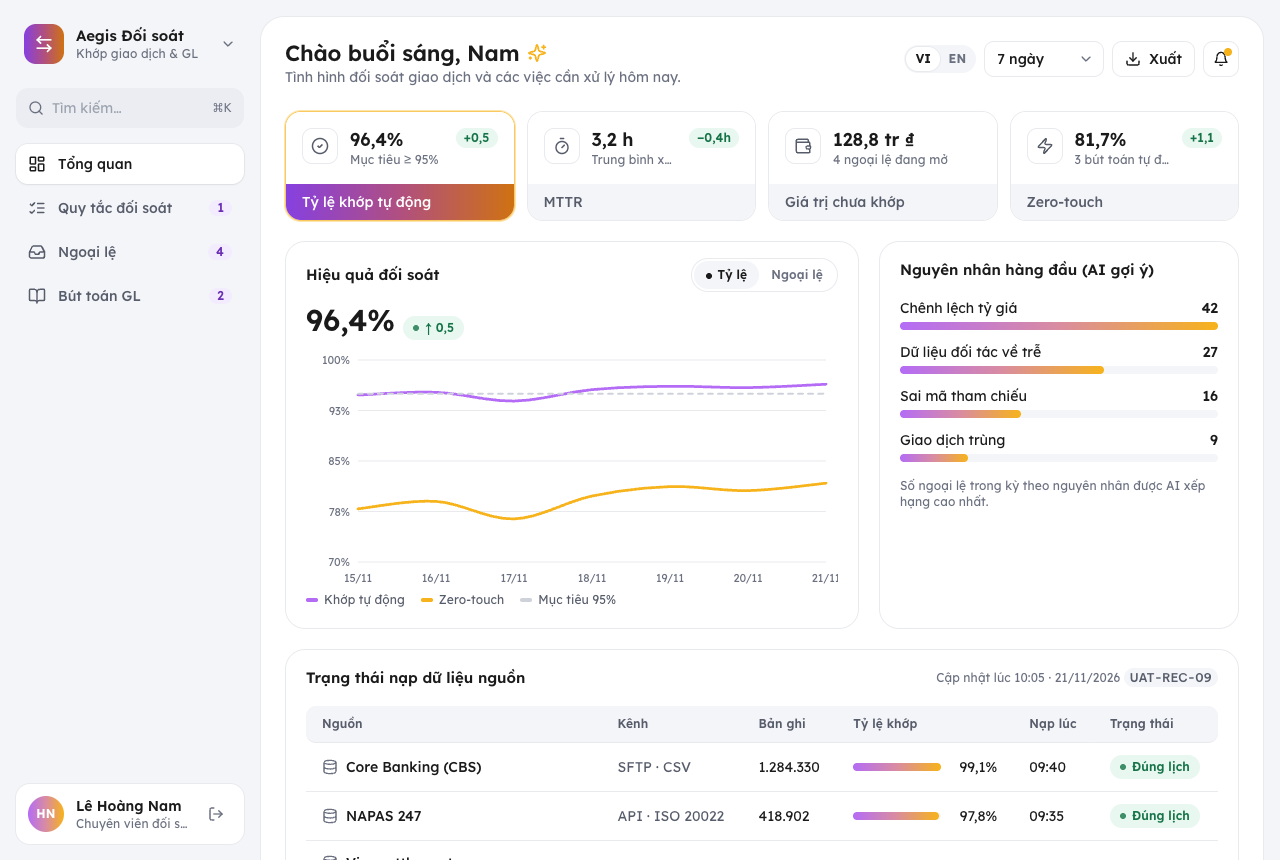
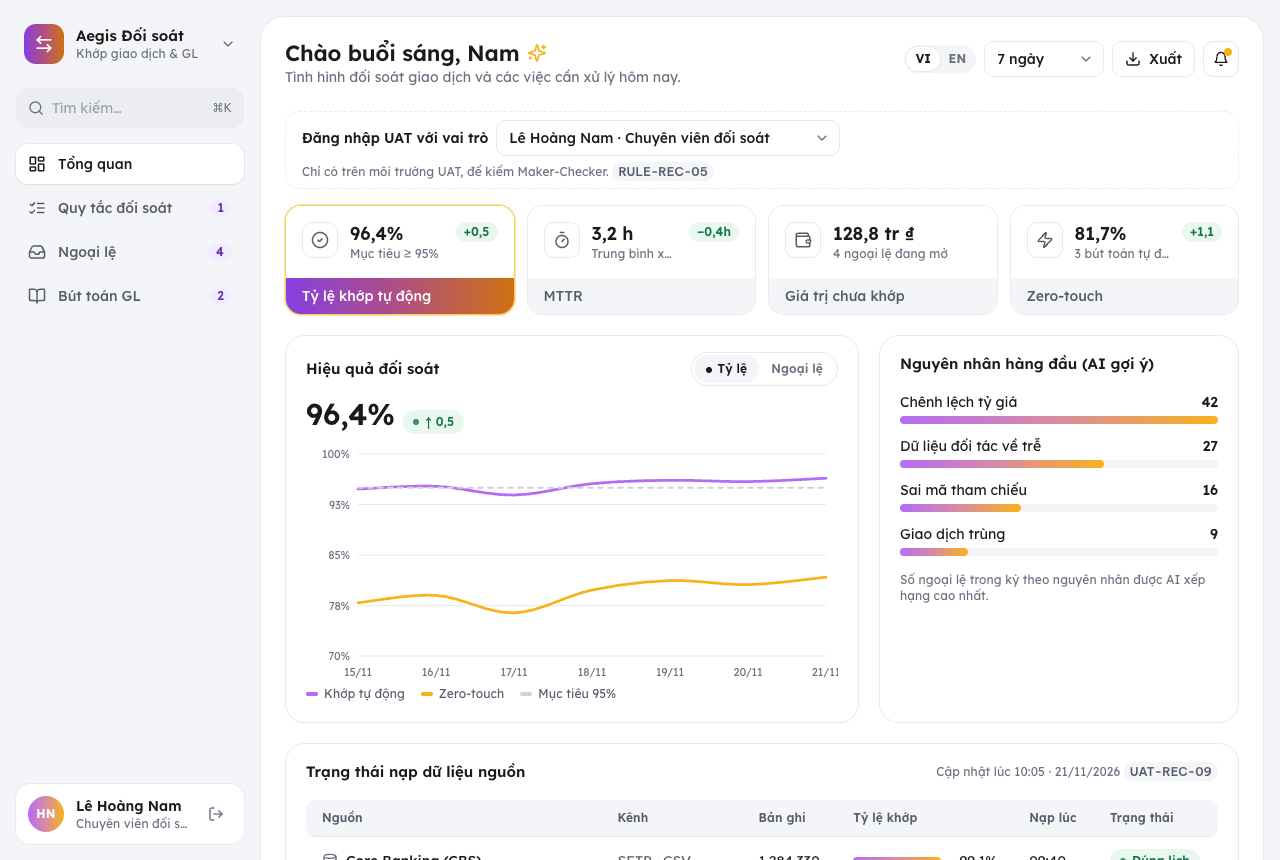
Reconciliation UI: UAT sign-in with 3 roles, RULE-REC-05 check at GL approval, rule shown per entry; tests TC-REC-23..25 (25/25); R02-R04 updated

diff --git a/src/ops/Reconciliation.tsx b/src/ops/Reconciliation.tsx
@@ -1,5 +1,5 @@
 /* Aegis Đối soát – REC-01 → REC-06 (SCRUM-49), truy vết dữ liệu (SCRUM-50). Dữ liệu hư cấu. */
-import { useMemo, useState } from "react";
+import { createContext, useContext, useEffect, useMemo, useState } from "react";
 import {
   AlertTriangle, ArrowLeft, ArrowRight, BookOpen, CheckCircle2, Clock, Database, GitBranch, Inbox,
   LayoutDashboard, ListChecks, Plus, ScrollText, ShieldAlert, Sparkles, Timer, Wallet, Zap,
@@ -10,7 +10,15 @@ import {
   GhostButton, GradientButton, HBars, LineChart, Meter, OpsShell, Panel, Pill, type PillTone, RuleTag, SearchBox, Segmented, Select, StatCard, Table, pct, vnd,
 } from "./kit";
 
-const ME = "Lê Hoàng Nam";
+const NAM = "Lê Hoàng Nam";
+/* Người dùng UAT – đổi vai trò để kiểm Maker-Checker và RULE-REC-05 (R04 §2) */
+const USERS = [
+  { name: NAM, vi: "Chuyên viên đối soát", en: "Reconciliation officer" },
+  { name: "Phạm Thu Trang", vi: "Kiểm soát viên (Checker)", en: "Controller (checker)" },
+  { name: "Đỗ Minh Quân", vi: "Trưởng nhóm đối soát", en: "Reconciliation lead" },
+];
+const MeCtx = createContext(NAM);
+const useMe = () => useContext(MeCtx);
 const GL_THRESHOLD = 50_000_000; // RULE-REC-04 – giữ baseline vì CR-002 chưa duyệt
 
 type View = "dashboard" | "rules" | "exceptions" | "gl";
@@ -31,7 +39,7 @@ type RuleStatus = "ACTIVE" | "PENDING" | "DRAFT";
 type Rule = { id: string; name: string; type: RuleType; keys: string[]; tolerance: string; version: number; status: RuleStatus; maker: string; checker?: string; hit: number };
 const RULES0: Rule[] = [
   { id: "MR-001", name: "CBS ↔ NAPAS · khớp tuyệt đối", type: "EXACT", keys: ["ref", "amount", "date"], tolerance: "0 ₫ · 0 ngày", version: 7, status: "ACTIVE", maker: "Phạm Thu Trang", checker: "Lê Hoàng Nam", hit: 71.2 },
-  { id: "MR-002", name: "CBS ↔ Visa · lệch tỷ giá", type: "FUZZY", keys: ["amount", "date", "account"], tolerance: "±0,5% · ±1 ngày", version: 4, status: "ACTIVE", maker: "Lê Hoàng Nam", checker: "Phạm Thu Trang", hit: 14.6 },
+  { id: "MR-002", name: "CBS ↔ Visa · lệch tỷ giá", type: "FUZZY", keys: ["amount", "date", "account"], tolerance: "±0,5% · ±1 ngày", version: 4, status: "ACTIVE", maker: "Đỗ Minh Quân", checker: "Phạm Thu Trang", hit: 14.6 },
   { id: "MR-003", name: "Gộp phí N:1 Mastercard", type: "N1", keys: ["batch", "amount"], tolerance: "≤ 20 giao dịch/lô", version: 2, status: "ACTIVE", maker: "Đỗ Minh Quân", checker: "Lê Hoàng Nam", hit: 6.3 },
   { id: "MR-004", name: "Ví điện tử · mã tham chiếu rút gọn", type: "FUZZY", keys: ["ref", "amount"], tolerance: "Levenshtein ≤ 2", version: 1, status: "PENDING", maker: "Lê Hoàng Nam", hit: 0 },
   { id: "MR-005", name: "Hoàn tiền NAPAS (refund)", type: "EXACT", keys: ["ref", "amount"], tolerance: "0 ₫", version: 1, status: "DRAFT", maker: "Phạm Thu Trang", hit: 0 },
@@ -41,26 +49,26 @@ const RULES0: Rule[] = [
 type ExStatus = "OPEN" | "IN_PROGRESS" | "ESCALATED" | "PENDING_POSTING" | "RESOLVED";
 type Resolution = "ADJUSTMENT" | "MANUAL_MATCH" | "REQUEST_DOCS";
 type Ex = {
-  id: string; pair: string; kind: "UNMATCHED" | "PARTIAL" | "DUPLICATE"; amount: number; diff: number; ageH: number; dueH: number;
+  id: string; pair: string; rule: string; kind: "UNMATCHED" | "PARTIAL" | "DUPLICATE"; amount: number; diff: number; ageH: number; dueH: number;
   owner?: string; status: ExStatus; causes: { vi: string; en: string; p: number }[];
   resolution?: { type: Resolution; cause: string; override: boolean; note?: string; ref?: string };
   waitingDocs?: string;
   internal: { ref: string; date: string; acct: string; amount: number }; external: { ref: string; date: string; acct: string; amount: number } | null;
 };
 const EX0: Ex[] = [
-  { id: "EXC-1124", pair: "CBS ↔ Visa", kind: "PARTIAL", amount: 48_250_000, diff: 241_250, ageH: 30, dueH: 24, owner: ME, status: "IN_PROGRESS",
+  { id: "EXC-1124", pair: "CBS ↔ Visa", rule: "MR-002", kind: "PARTIAL", amount: 48_250_000, diff: 241_250, ageH: 30, dueH: 24, owner: NAM, status: "IN_PROGRESS",
     causes: [{ vi: "Chênh lệch tỷ giá quy đổi USD/VND", en: "USD/VND conversion difference", p: 78 }, { vi: "Phí chuyển đổi ngoại tệ chưa hạch toán", en: "Unbooked FX fee", p: 15 }, { vi: "Làm tròn của tổ chức thẻ", en: "Card scheme rounding", p: 7 }],
     internal: { ref: "FT2611093321", date: "20/11 14:02", acct: "1903 6688 2025", amount: 48_250_000 }, external: { ref: "VS-883102", date: "21/11 06:10", acct: "4111 •••• 1234", amount: 48_008_750 } },
-  { id: "EXC-1125", pair: "CBS ↔ NAPAS", kind: "UNMATCHED", amount: 125_000_000, diff: 125_000_000, ageH: 52, dueH: 48, status: "ESCALATED",
+  { id: "EXC-1125", pair: "CBS ↔ NAPAS", rule: "MR-001", kind: "UNMATCHED", amount: 125_000_000, diff: 125_000_000, ageH: 52, dueH: 48, status: "ESCALATED",
     causes: [{ vi: "Giao dịch NAPAS chưa về (T+1)", en: "NAPAS record not yet received (T+1)", p: 64 }, { vi: "Sai mã tham chiếu do nhập tay", en: "Manually mistyped reference", p: 24 }, { vi: "Giao dịch bị huỷ phía ngân hàng nhận", en: "Reversed by the beneficiary bank", p: 12 }],
     internal: { ref: "FT2611080017", date: "19/11 09:41", acct: "0071 0003 4567", amount: 125_000_000 }, external: null },
-  { id: "EXC-1127", pair: "Mastercard N:1", kind: "PARTIAL", amount: 12_400_000, diff: 18_000, ageH: 6, dueH: 24, status: "OPEN",
+  { id: "EXC-1127", pair: "Mastercard N:1", rule: "MR-003", kind: "PARTIAL", amount: 12_400_000, diff: 18_000, ageH: 6, dueH: 24, status: "OPEN",
     causes: [{ vi: "Thiếu 1 giao dịch phí trong lô", en: "One fee transaction missing from batch", p: 71 }, { vi: "Phí interchange thay đổi", en: "Interchange fee changed", p: 22 }, { vi: "Lô bị tách 2 file", en: "Batch split across two files", p: 7 }],
     internal: { ref: "BATCH-MC-1120", date: "20/11 23:59", acct: "GL 1131.02", amount: 12_400_000 }, external: { ref: "IPM-77812", date: "21/11 06:05", acct: "GL 1131.02", amount: 12_382_000 } },
-  { id: "EXC-1128", pair: "CBS ↔ NAPAS", kind: "DUPLICATE", amount: 3_500_000, diff: 3_500_000, ageH: 2, dueH: 24, status: "OPEN",
+  { id: "EXC-1128", pair: "CBS ↔ NAPAS", rule: "MR-001", kind: "DUPLICATE", amount: 3_500_000, diff: 3_500_000, ageH: 2, dueH: 24, status: "OPEN",
     causes: [{ vi: "Khách bấm chuyển 2 lần", en: "Customer submitted twice", p: 82 }, { vi: "NAPAS gửi lại bản ghi", en: "NAPAS resent the record", p: 18 }],
     internal: { ref: "FT2611095510", date: "21/11 08:12", acct: "1903 1122 3344", amount: 3_500_000 }, external: { ref: "NP-5510-DUP", date: "21/11 08:12", acct: "1903 1122 3344", amount: 3_500_000 } },
-  { id: "EXC-1120", pair: "CBS ↔ Visa", kind: "PARTIAL", amount: 9_870_000, diff: 49_350, ageH: 70, dueH: 72, owner: "Phạm Thu Trang", status: "RESOLVED",
+  { id: "EXC-1120", pair: "CBS ↔ Visa", rule: "MR-002", kind: "PARTIAL", amount: 9_870_000, diff: 49_350, ageH: 70, dueH: 72, owner: "Phạm Thu Trang", status: "RESOLVED",
     causes: [{ vi: "Chênh lệch tỷ giá quy đổi USD/VND", en: "USD/VND conversion difference", p: 91 }],
     internal: { ref: "FT2611051209", date: "18/11 10:20", acct: "1903 2211 8899", amount: 9_870_000 }, external: { ref: "VS-881044", date: "19/11 06:08", acct: "4111 •••• 9981", amount: 9_820_650 } },
 ];
@@ -69,9 +77,9 @@ type GLStatus = "POSTED" | "PENDING" | "RETURNED" | "REJECTED";
 type GL = { id: string; date: string; debit: string; credit: string; amount: number; source: string; mode: "ZERO_TOUCH" | "MAKER_CHECKER"; maker: string; checker?: string; status: GLStatus; memo: { vi: string; en: string }; rejectReason?: string; returnNote?: string; submits?: number };
 const GL0: GL[] = [
   { id: "GL-90311", date: "21/11 09:42", debit: "1131.02", credit: "4211.01", amount: 12_382_000, source: "MR-003 · BATCH-MC-1120", mode: "ZERO_TOUCH", maker: "system", status: "POSTED", memo: { vi: "Tất toán lô Mastercard", en: "Mastercard batch settlement" } },
-  { id: "GL-90312", date: "21/11 09:44", debit: "6311.01", credit: "1131.03", amount: 241_250, source: "EXC-1124", mode: "ZERO_TOUCH", maker: ME, status: "POSTED", memo: { vi: "Điều chỉnh chênh lệch tỷ giá", en: "FX difference adjustment" } },
+  { id: "GL-90312", date: "21/11 09:44", debit: "6311.01", credit: "1131.03", amount: 241_250, source: "EXC-1124", mode: "ZERO_TOUCH", maker: NAM, status: "POSTED", memo: { vi: "Điều chỉnh chênh lệch tỷ giá", en: "FX difference adjustment" } },
   { id: "GL-90313", date: "21/11 09:51", debit: "1131.01", credit: "4211.05", amount: 125_000_000, source: "EXC-1125", mode: "MAKER_CHECKER", maker: "Phạm Thu Trang", status: "PENDING", memo: { vi: "Treo chờ NAPAS T+1", en: "Suspense pending NAPAS T+1" } },
-  { id: "GL-90314", date: "21/11 10:03", debit: "1131.01", credit: "4211.01", amount: 86_400_000, source: "MR-002 · VS-883190", mode: "MAKER_CHECKER", maker: ME, status: "PENDING", memo: { vi: "Điều chỉnh lô Visa > 50 triệu", en: "Visa batch adjustment > 50m" } },
+  { id: "GL-90314", date: "21/11 10:03", debit: "1131.01", credit: "4211.01", amount: 86_400_000, source: "MR-002 · VS-883190", mode: "MAKER_CHECKER", maker: NAM, status: "PENDING", memo: { vi: "Điều chỉnh lô Visa > 50 triệu", en: "Visa batch adjustment > 50m" } },
   { id: "GL-90309", date: "20/11 17:20", debit: "6311.01", credit: "1131.03", amount: 49_350, source: "EXC-1120", mode: "ZERO_TOUCH", maker: "Phạm Thu Trang", status: "POSTED", memo: { vi: "Điều chỉnh chênh lệch tỷ giá", en: "FX difference adjustment" } },
 ];
 
@@ -98,7 +106,13 @@ const aging = (h: number) => (h < 24 ? "0–1d" : h < 72 ? "1–3d" : h < 168 ? 
 /* ---------- App ---------- */
 
 function RecApp() {
-  const { tr } = useLang();
+  const { tr, pick } = useLang();
+  const [me, setMe] = useState(() => {
+    if (typeof window === "undefined") return NAM;
+    const as = new URLSearchParams(window.location.search).get("as");
+    return USERS.find((u) => u.name.split(" ").at(-1)?.toLowerCase() === as?.toLowerCase())?.name ?? NAM;
+  });
+  const meUser = USERS.find((u) => u.name === me)!;
   const [view, setView] = useState<View>("dashboard");
   const [period, setPeriod] = useState("7d");
   const [rules, setRules] = useState(RULES0);
@@ -120,9 +134,10 @@ function RecApp() {
   const ex = exs.find((e) => e.id === openEx);
 
   return (
+    <MeCtx.Provider value={me}>
     <OpsShell
-      module="reconciliation" nav={nav} view={view} onView={go} user={ME} role={tr("Chuyên viên đối soát", "Reconciliation officer")}
-      greeting={tr("Chào buổi sáng, Nam", "Good morning, Nam")}
+      module="reconciliation" nav={nav} view={view} onView={go} user={me} role={pick(meUser)}
+      greeting={tr(`Chào buổi sáng, ${me.split(" ").at(-1)}`, `Good morning, ${me.split(" ").at(-1)}`)}
       subtitle={tr("Tình hình đối soát giao dịch và các việc cần xử lý hôm nay.", "Today's reconciliation status and what needs your attention.")}
       period={period} onPeriod={setPeriod} onExport={() => {}}
       alerts={[
@@ -131,6 +146,11 @@ function RecApp() {
         { title: tr("2 bút toán > 50 triệu chờ Checker", "2 entries > 50m awaiting checker"), time: "10:03", tone: "pending" },
       ]}
     >
+      <div className="mb-4 flex flex-wrap items-center gap-2 rounded-[14px] border border-dashed border-line-subtle px-4 py-2 text-body-sm">
+        <span className="font-semibold">{tr("Đăng nhập UAT với vai trò", "UAT sign-in as")}</span>
+        <Select value={me} onChange={setMe} label={tr("Người dùng UAT", "UAT user")} options={USERS.map((u) => ({ value: u.name, label: `${u.name} · ${pick(u)}` }))} />
+        <span className="text-caption text-fg-tertiary">{tr("Chỉ có trên môi trường UAT, để kiểm Maker-Checker.", "UAT only, for testing maker-checker.")} <RuleTag>RULE-REC-05</RuleTag></span>
+      </div>
       {view === "dashboard" && <Dashboard period={period} exs={exs} gls={gls} onOpenEx={(id) => { setView("exceptions"); setOpenEx(id); }} go={go} />}
       {view === "rules" && <Rules rules={rules} setRules={setRules} onNew={() => setRuleForm(true)} />}
       {view === "exceptions" && !ex && <Exceptions exs={exs} onOpen={setOpenEx} />}
@@ -139,10 +159,11 @@ function RecApp() {
           update={(p) => setExs((xs) => xs.map((x) => (x.id === ex.id ? { ...x, ...p } : x)))}
           addGL={(g) => setGls((xs) => [g, ...xs])} />
       )}
-      {view === "gl" && <GLView gls={gls} setGls={setGls}
+      {view === "gl" && <GLView gls={gls} setGls={setGls} rules={rules} exs={exs}
         onCase={(id, outcome) => setExs((xs) => xs.map((x) => (x.id !== id || x.status === "RESOLVED" ? x : outcome === "posted" ? { ...x, status: "RESOLVED" } : x.status === "PENDING_POSTING" ? { ...x, status: "IN_PROGRESS" } : x)))} />}
       <RuleForm open={ruleForm} onClose={() => setRuleForm(false)} onSave={(r) => { setRules((xs) => [r, ...xs]); setRuleForm(false); }} nextId={`MR-${String(rules.length + 1).padStart(3, "0")}`} />
     </OpsShell>
+    </MeCtx.Provider>
   );
 }
 
@@ -227,6 +248,7 @@ function Dashboard({ period, exs, gls, onOpenEx, go }: { period: string; exs: Ex
 
 function Rules({ rules, setRules, onNew }: { rules: Rule[]; setRules: (f: (r: Rule[]) => Rule[]) => void; onNew: () => void }) {
   const { tr } = useLang();
+  const ME = useMe();
   const [q, setQ] = useState("");
   const [msg, setMsg] = useState<string | null>(null);
   const list = rules.filter((r) => (r.name + r.id).toLowerCase().includes(q.toLowerCase()));
@@ -270,12 +292,14 @@ function Rules({ rules, setRules, onNew }: { rules: Rule[]; setRules: (f: (r: Ru
 
 function RuleForm({ open, onClose, onSave, nextId }: { open: boolean; onClose: () => void; onSave: (r: Rule) => void; nextId: string }) {
   const { tr } = useLang();
+  const ME = useMe();
   const [name, setName] = useState("");
   const [type, setType] = useState<RuleType>("FUZZY");
   const [keys, setKeys] = useState<string[]>(["ref", "amount"]);
   const [amountTol, setAmountTol] = useState("0,5");
   const [dayTol, setDayTol] = useState("1");
   const [checker, setChecker] = useState("Phạm Thu Trang");
+  useEffect(() => { if (open) setChecker(USERS.find((u) => u.name !== ME)!.name); }, [open, ME]);
   const sod = checker === ME;
   const valid = name.trim().length >= 4 && keys.length >= 1 && !sod;
   const allKeys = [{ id: "ref", l: tr("Mã tham chiếu", "Reference") }, { id: "amount", l: tr("Số tiền", "Amount") }, { id: "date", l: tr("Ngày giao dịch", "Date") }, { id: "account", l: tr("Tài khoản", "Account") }, { id: "batch", l: tr("Mã lô", "Batch") }];
@@ -299,7 +323,7 @@ function RuleForm({ open, onClose, onSave, nextId }: { open: boolean; onClose: (
           </div>
         )}
         <div className="flex flex-col gap-1.5"><span className="text-body-sm font-semibold">{tr("Người duyệt (Checker)", "Approver (checker)")}</span>
-          <Select value={checker} onChange={setChecker} label={tr("Người duyệt", "Approver")} options={[{ value: "Phạm Thu Trang", label: "Phạm Thu Trang" }, { value: "Đỗ Minh Quân", label: "Đỗ Minh Quân" }, { value: ME, label: `${ME} (${tr("bạn", "you")})` }]} /></div>
+          <Select value={checker} onChange={setChecker} label={tr("Người duyệt", "Approver")} options={USERS.map((u) => ({ value: u.name, label: u.name === ME ? `${u.name} (${tr("bạn", "you")})` : u.name }))} /></div>
         {sod && (
           <div role="alert" className="flex gap-3 rounded-[14px] border border-[#f3c6c0] bg-[#fdf0ee] p-4 text-body-sm text-[#7a1a12]">
             <ShieldAlert className="mt-0.5 size-5 shrink-0" />
@@ -358,6 +382,7 @@ const textCls = "w-full rounded-[12px] border border-line-subtle px-3 py-2 text-
 
 function ExceptionDetail({ ex, gls, onBack, update, addGL }: { ex: Ex; gls: GL[]; onBack: () => void; update: (p: Partial<Ex>) => void; addGL: (g: GL) => void }) {
   const { tr, pick } = useLang();
+  const ME = useMe();
   const [cause, setCause] = useState<number | "other">(0);
   const [otherCat, setOtherCat] = useState(0);
   const [otherNote, setOtherNote] = useState("");
@@ -533,8 +558,11 @@ function ExceptionDetail({ ex, gls, onBack, update, addGL }: { ex: Ex; gls: GL[]
 
 /* ---------- REC-06 Bút toán GL ---------- */
 
-function GLView({ gls, setGls, onCase }: { gls: GL[]; setGls: (f: (g: GL[]) => GL[]) => void; onCase: (caseId: string, outcome: "posted" | "reopened") => void }) {
+function GLView({ gls, setGls, onCase, rules, exs }: { gls: GL[]; setGls: (f: (g: GL[]) => GL[]) => void; onCase: (caseId: string, outcome: "posted" | "reopened") => void; rules: Rule[]; exs: Ex[] }) {
   const { tr, pick } = useLang();
+  const ME = useMe();
+  // Quy tắc đã sinh ra giao dịch của bút toán: lấy trực tiếp từ nguồn, hoặc qua ngoại lệ liên quan
+  const ruleOf = (g: GL) => rules.find((r) => r.id === (g.source.match(/MR-\d+/)?.[0] ?? exs.find((e) => e.id === caseOf(g))?.rule));
   const [tab, setTab] = useState<"all" | "pending" | "zero">("all");
   const [msg, setMsg] = useState<{ tone: "ok" | "block"; text: string } | null>(null);
   const [dialog, setDialog] = useState<{ g: GL; kind: "reject" | "return" } | null>(null);
@@ -548,6 +576,12 @@ function GLView({ gls, setGls, onCase }: { gls: GL[]; setGls: (f: (g: GL[]) => G
   };
   const approve = (g: GL) => {
     if (blockMaker(g)) return;
+    // RULE-REC-05 (BR-REC-08, REQ-REC-07): người tạo quy tắc không duyệt điều chỉnh lớn sinh từ quy tắc đó
+    const r = ruleOf(g);
+    if (g.amount > GL_THRESHOLD && r && r.maker === ME) {
+      setMsg({ tone: "block", text: tr(`Không thể duyệt ${g.id}: bạn là người tạo quy tắc ${r.id} sinh ra giao dịch này (RULE-REC-05 – phân tách nhiệm vụ).`, `Can't approve ${g.id}: you created rule ${r.id}, which produced this transaction (RULE-REC-05 – segregation of duties).`) });
+      return;
+    }
     patch(g.id, { status: "POSTED", checker: ME });
     const c = caseOf(g); if (c) onCase(c, "posted");
     setMsg({ tone: "ok", text: tr(`Đã duyệt và hạch toán ${g.id}.`, `${g.id} approved and posted.`) });
@@ -591,6 +625,7 @@ function GLView({ gls, setGls, onCase }: { gls: GL[]; setGls: (f: (g: GL[]) => G
                 <td>
                   {g.mode === "ZERO_TOUCH" ? <Pill tone="brand">Zero-touch</Pill> : <Pill tone="neutral">Maker-Checker</Pill>}
                   <span className="mt-1 block text-caption text-fg-secondary">{g.maker === "system" ? tr("Hệ thống", "System") : g.maker}</span>
+                  {ruleOf(g) && <span className="block text-caption text-fg-tertiary">{tr("Quy tắc", "Rule")} {ruleOf(g)!.id} · {ruleOf(g)!.maker}</span>}
                 </td>
                 <td>
                   <Pill tone={glTone[g.status]}>{statusLabel(g.status)}</Pill>

diff --git a/docs/02-reconciliation/R02-requirements-gap-rtm.md b/docs/02-reconciliation/R02-requirements-gap-rtm.md
@@ -5,7 +5,7 @@
 | Epic | [SCRUM-7](https://baohandao2303.atlassian.net/browse/SCRUM-7) · Reconciliation Capability |
 | Baseline | BAS-BRD-v1.2 (Phần 2.2, 3.4, 4.2, 5.2, 6.2) · BAS-RAID-v1.2 (RSK-05/06/07/12/15, DEC-01, ASM-07) |
 | Đối chiếu với | [R01](R01-reconciliation-flow.md) (luồng & trạng thái) · UI mẫu `/reconciliation/` · kết quả chạy [R04](R04-test-plan-cases.md) |
-| Phiên bản | 0.2 – bản nháp |
+| Phiên bản | 0.3 – bản nháp |
 | Trạng thái | 📝 Chờ Kế toán trưởng, PO và Compliance quyết định 9 điểm ở §3 |
 | Người soạn | Han Dao (BA) · 24/11/2026 |
 
@@ -22,7 +22,7 @@ Cách viết yêu cầu theo ISO/IEC/IEEE 29148:2018: mỗi yêu cầu một câ
 | BR-REC-05 | Top-3 nguyên nhân kèm xác suất (Explainable AI) | Should | R01 §3 | REC-04, REC-05 | Chưa có |
 | BR-REC-06 | GLEntry hạch toán kép, bất biến | Must | R01 §4 | Một cặp Nợ/Có mỗi bút toán | Chưa có |
 | BR-REC-07 | Điều chỉnh > 50 triệu bắt buộc Maker-Checker | Must | R01 §4 | REC-05, REC-06 | Chưa có |
-| BR-REC-08 | Người cấu hình rule không được duyệt Exception giá trị lớn (SoD) | Must | R01 §2 (hiểu khác – xem D-REC-04) | Chưa kiểm tra đúng nghĩa baseline | Chưa có |
+| BR-REC-08 | Người cấu hình rule không được duyệt Exception giá trị lớn (SoD) | Must | R01 §2 (hiểu khác – xem D-REC-04) | REC-06 chặn người tạo quy tắc duyệt bút toán > 50 triệu sinh từ quy tắc đó (REQ-REC-07) | Chưa có |
 | BR-REC-09 | Dashboard KPI vận hành | Should | R01 §7 | REC-01 | Chưa có |
 | BR-REC-10 | Truy vết từ giao dịch nguồn tới GL và báo cáo | Should | R01 §5 | REC-05 (4 bước) | Chưa có (SCRUM-50) |
 
@@ -35,7 +35,7 @@ Module 2 hiện **chỉ có UI mẫu chạy dữ liệu hư cấu**, chưa có `
 | [R01](R01-reconciliation-flow.md) | Luồng tổng thể, trạng thái, sequence Maker-Checker, ERD truy vết |
 | **R02** (tài liệu này) | Điểm lệch so với baseline, yêu cầu bổ sung, dữ liệu cần thêm, RTM |
 | [R03](R03-ui-spec.md) | Đặc tả giao diện REC-01 → REC-06, có ảnh |
-| [R04](R04-test-plan-cases.md) | Kế hoạch kiểm thử, 20 test case, kết quả chạy trên UI mẫu, lỗi |
+| [R04](R04-test-plan-cases.md) | Kế hoạch kiểm thử, 25 test case giao diện, kết quả chạy trên UI mẫu, lỗi |
 
 ## 3. Điểm lệch giữa baseline và R01 / UI mẫu – cần quyết định
 
@@ -46,7 +46,7 @@ R01 và UI mẫu được dựng theo Design Spec (SCRUM-49) nên có vài chỗ
 | D-REC-01 | Trạng thái ExceptionCase | `OPEN`, `IN_PROGRESS`, `CLOSED` | `OPEN`, `IN_PROGRESS`, `ESCALATED`, `RESOLVED` | Giữ 4 trạng thái nhưng đổi `RESOLVED` → `CLOSED` cho khớp BRD. Thêm `PENDING_POSTING` khi bút toán điều chỉnh còn chờ Checker (xem §5 và DEF-REC-06) | Kế toán trưởng |
 | D-REC-02 | Aging bucket | `0-1D`, `1-3D`, `>3D` | `0–1d`, `1–3d`, `3–7d`, `>7d` | Theo BRD (3 nhóm) cho dữ liệu và báo cáo. Nếu vận hành cần tách `>7d` thì đưa vào CR | Kế toán trưởng |
 | D-REC-03 | Điều kiện leo thang (RULE-REC-06) | Tồn đọng > 3 ngày | SLA theo loại và giá trị (24h / 48h / 72h) | Giữ ngưỡng 3 ngày của BRD làm mặc định. SLA theo loại là yêu cầu mới, cần CR và bảng SLA do Ops chốt | Ops + PO |
-| D-REC-04 | Ý nghĩa RULE-REC-05 (SoD) | Người tạo/sửa MatchingRule **không được duyệt Exception giá trị lớn** của case sinh ra từ rule đó | Người tạo rule không được tự duyệt **rule** của mình | Cả hai đều cần. Giữ RULE-REC-05 đúng nghĩa BRD (REQ-REC-07, chưa có trên UI). Kiểm soát "duyệt rule" là yêu cầu riêng REQ-REC-09 (nguồn: AC của SCRUM-23) | Compliance / InfoSec |
+| D-REC-04 | Ý nghĩa RULE-REC-05 (SoD) | Người tạo/sửa MatchingRule **không được duyệt Exception giá trị lớn** của case sinh ra từ rule đó | Người tạo rule không được tự duyệt **rule** của mình | Cả hai đều cần. Giữ RULE-REC-05 đúng nghĩa BRD (REQ-REC-07, UI mẫu đã có từ v0.3). Kiểm soát "duyệt rule" là yêu cầu riêng REQ-REC-09 (nguồn: AC của SCRUM-23) | Compliance / InfoSec |
 | D-REC-05 | Trạng thái MatchingRule | `ACTIVE`, `INACTIVE` | `DRAFT`, `PENDING`, `ACTIVE`, `RETIRED` | Dùng vòng đời của R01 (cần cho Maker-Checker rule). `INACTIVE` của BRD = `RETIRED` | Kế toán trưởng |
 | D-REC-06 | Ngoại lệ loại `DUPLICATE` | MatchResult chỉ có `MATCHED`, `UNMATCHED`, `PARTIAL`; trùng file/message bị loại ở bước nạp theo checksum | Có ngoại lệ `DUPLICATE` | Tách 2 loại: **trùng kỹ thuật** (cùng checksum) loại ở bước nạp, chỉ ghi log; **trùng nghiệp vụ** (khách chuyển 2 lần, khác checksum) thành ngoại lệ `DUPLICATE`. Thêm giá trị này vào `ExceptionCase.kind` | Kế toán trưởng |
 | D-REC-07 | Mục tiêu Zero-touch (KPI-05) | ≥ 30% giai đoạn đầu | R01 ghi "Theo dõi"; UI không hiện mục tiêu | Theo BRD: ≥ 30%. **Đã sửa R01 §7** vì đây là lỗi chép, không phải lựa chọn | — (đã sửa) |
@@ -139,8 +139,8 @@ Khác biệt chính với R01: ngoại lệ **chỉ đóng khi bút toán đã p
 | BR-REC-04 | UC-REC-03 | RULE-REC-03 | REQ-REC-15 | — | TC-REC-B05 | — |
 | BR-REC-05 | UC-REC-04 | RULE-REC-06, 07 | REQ-REC-01, 02, 03, 04 | REC-04, REC-05 | TC-REC-08, 09, 10, 12, 15 | — |
 | BR-REC-06 | UC-REC-05 | RULE-REC-08 | REQ-REC-08, 11 | REC-06 | TC-REC-20 · TC-REC-B06 | — |
-| BR-REC-07 | UC-REC-05 | RULE-REC-04 | FR-REC-09 · REQ-REC-05, 06, 10 | REC-05, REC-06 | TC-REC-13, 14, 16, 17, 18, 19 | UAT-REC-07 |
-| BR-REC-08 | UC-REC-02, 05 | RULE-REC-05 | REQ-REC-07 | REC-06 | TC-REC-B07 | — |
+| BR-REC-07 | UC-REC-05 | RULE-REC-04 | FR-REC-09 · REQ-REC-05, 06, 10 | REC-05, REC-06 | TC-REC-13, 14, 16, 17, 18, 19, 24, 25 | UAT-REC-07 |
+| BR-REC-08 | UC-REC-02, 05 | RULE-REC-05 | REQ-REC-07 | REC-06 | TC-REC-23 · TC-REC-B07 | — |
 | BR-REC-09 | UC-REC-06 | — | FR-REC-10 · REQ-REC-04, 17, 18 | REC-01 | TC-REC-01, 02 | UAT-REC-09 |
 | BR-REC-10 | UC-REC-06 | — | FR-REC-11 · REQ-REC-19 | REC-05 | TC-REC-11 · TC-REC-B08 | UAT-REC-10 |
 | BR-LIM-10 | — | — | REQ-REC-20 | — | TC-REC-B09 | UAT-LIM-08 |
@@ -173,3 +173,4 @@ Khác biệt chính với R01: ngoại lệ **chỉ đóng khi bút toán đã p
 |---|---|---|---|
 | 0.1 | 24/11/2026 | Han Dao | Bản đầu: 9 điểm lệch baseline, 20 yêu cầu bổ sung, dữ liệu cần thêm, RTM |
 | 0.2 | 24/11/2026 | Han Dao | UI mẫu đã đáp ứng REQ-REC-01, 02, 05, 06, 08 và trạng thái `PENDING_POSTING` (R04 vòng 2) |
+| 0.3 | 24/11/2026 | Han Dao | UI mẫu có 3 vai trò UAT, đáp ứng REQ-REC-07 (RULE-REC-05 đúng nghĩa baseline) |

diff --git a/docs/02-reconciliation/R04-test-plan-cases.md b/docs/02-reconciliation/R04-test-plan-cases.md
@@ -7,14 +7,14 @@
 | Đối tượng kiểm thử | UI mẫu [/reconciliation/](https://handao2303.github.io/aegis-ekyc-ui/reconciliation/) bản trên GitHub Pages ngày 24/11/2026 |
 | Yêu cầu nguồn | BAS-BRD-v1.2 §2.2, §4.2, §5.2 · [R01](R01-reconciliation-flow.md) · [R02](R02-requirements-gap-rtm.md) |
 | Người thực hiện | Han Dao (BA) |
-| Phiên bản | 1.1 · 24/11/2026 (vòng 2 sau khi sửa lỗi) |
+| Phiên bản | 1.2 · 24/11/2026 (vòng 2 sau khi sửa lỗi, thêm vai trò Checker) |
 
 ## 1. Tóm tắt kết quả
 
 | | Vòng 1 | Vòng 2 |
 |---|---|---|
-| Ca giao diện đã chạy | 20 | 22 (thêm TC-REC-21, 22 cho DEF-REC-06) |
-| Đạt | 15 | **22** |
+| Ca giao diện đã chạy | 20 | 25 (thêm TC-REC-21, 22 cho DEF-REC-06; TC-REC-23 → 25 cho nhiều vai trò) |
+| Đạt | 15 | **25** |
 | Không đạt | 5 | **0** |
 | Ca backend chưa chạy được (chưa có `reconciliation-service`) | 9 | 9 |
 | Lỗi mở | 6 (2 High · 4 Medium) | **0** – cả 6 lỗi đã sửa |
@@ -29,7 +29,7 @@
 |---|---|
 | 6 màn REC-01 → REC-06: hiển thị, điều hướng, quy tắc chặn trên giao diện | Nạp file thật, engine khớp, hạch toán vào sổ cái, hiệu năng – chưa có backend |
 | Kiểm soát SoD, ngưỡng Maker-Checker, truy vết, trạng thái ngoại lệ | Đối chiếu chéo EOD với Hạn mức (SCRUM-53) |
-| | Phân quyền nhiều vai trò – UI mẫu chỉ có một người dùng |
+| | Phân quyền thật theo SSO – UI mẫu dùng ô "Đăng nhập UAT với vai trò" (3 người dùng) |
 
 ### 2.2 Cách làm
 
@@ -37,7 +37,7 @@
 |---|---|
 | Kỹ thuật thiết kế ca | Dựa trên use case (UC-REC-01 → 06), bảng quyết định cho ngưỡng 50 triệu, chuyển trạng thái cho ngoại lệ và bút toán |
 | Thực thi | Tự động bằng Chrome headless, script `tools/diagrams/rec-screens.mjs` (vừa chạy ca vừa chụp ảnh cho R03). Chạy lại: `node rec-screens.mjs ../../public/ui` |
-| Dữ liệu | Dữ liệu hư cấu có sẵn trong UI mẫu (5 nguồn, 5 quy tắc, 5 ngoại lệ, 5 bút toán). Người dùng đăng nhập là "Lê Hoàng Nam" |
+| Dữ liệu | Dữ liệu hư cấu có sẵn trong UI mẫu (5 nguồn, 5 quy tắc, 5 ngoại lệ, 5 bút toán). Người dùng mặc định là "Lê Hoàng Nam" (chuyên viên); đổi sang "Phạm Thu Trang" (Checker) hoặc "Đỗ Minh Quân" (trưởng nhóm, người tạo MR-002, MR-003) bằng ô "Đăng nhập UAT với vai trò" hoặc `?as=trang` / `?as=quan` |
 | Môi trường | macOS, Chrome headless, cửa sổ 1280 × 860, tiếng Việt |
 
 ### 2.3 Điều kiện vào / ra
@@ -76,6 +76,9 @@ Cột "Vòng 1" giữ kết quả lần chạy đầu để truy vết lỗi.
 | TC-REC-20 | REC-05 | EXC-1125 đã có GL-90313 chờ duyệt → chọn Hạch toán điều chỉnh | Không tạo được bút toán thứ hai | Cảnh báo "Đã có bút toán GL-90313 (125 tr ₫) đang chờ Checker", nút bị khoá | ❌ DEF-REC-01 | ✅ | REQ-REC-08, BR-REC-06 |
 | TC-REC-21 | REC-05 | Sau TC-REC-13: xem trạng thái EXC-1125 | Ngoại lệ ở Chờ hạch toán, vẫn trong danh sách đang mở | `PENDING_POSTING` | — | ✅ | DEF-REC-06, R02 §5 |
 | TC-REC-22 | REC-06 → REC-04 | Duyệt GL-90313 rồi mở danh sách ngoại lệ | Ngoại lệ liên quan đóng khi bút toán `POSTED` | EXC-1125 rời danh sách đang mở | — | ✅ | DEF-REC-06 |
+| TC-REC-23 | REC-06 | Đăng nhập Đỗ Minh Quân (người tạo MR-002) → Duyệt GL-90314 (86,4 triệu, sinh từ MR-002, Maker là Nam) | Bị chặn theo RULE-REC-05 | "Không thể duyệt GL-90314: bạn là người tạo quy tắc MR-002 sinh ra giao dịch này" | — | ✅ | RULE-REC-05, REQ-REC-07, BR-REC-08 |
+| TC-REC-24 | REC-06 | Trang trả GL-90314 về kèm ghi chú → đăng nhập Nam → Trình lại | Nút Trình lại chỉ hiện cho Maker; bút toán giữ mã, về Chờ Checker, lần trình = 2 | "Đã trình lại GL-90314 (lần 2)" | — | ✅ | REQ-REC-06 |
+| TC-REC-25 | REC-06 | Đăng nhập Trang → Duyệt GL-90314 đã trình lại | Checker khác Maker và khác người tạo quy tắc duyệt được | "Đã duyệt và hạch toán GL-90314" | — | ✅ | BR-REC-07, BR-REC-08 |
 
 ## 4. Test case backend – chưa chạy
 
@@ -106,7 +109,7 @@ Viết sẵn để đội backend dùng khi có `reconciliation-service`. Kết 
 
 DEF-REC-06 phát hiện khi đọc mã nguồn ở vòng 1. Vòng 2 thêm TC-REC-21 và TC-REC-22 để kiểm tra riêng.
 
-Còn một giới hạn của UI mẫu: chỉ có một người dùng nên chưa chạy được bước "Maker trình lại sau khi bị trả về" với Checker khác (nút có, nhưng bút toán của Maker khác không hiện nút này cho người đang đăng nhập).
+Giới hạn của vòng 2 ban đầu (chỉ có một người dùng nên chưa chạy được luồng trình lại và RULE-REC-05) đã gỡ bằng ô đổi vai trò UAT: TC-REC-23 → 25.
 
 ## 6. Độ phủ yêu cầu
 
@@ -117,16 +120,15 @@ Còn một giới hạn của UI mẫu: chỉ có một người dùng nên chư
 | BR-REC-03, 04 | 0 | — | 3 | Cần engine khớp |
 | BR-REC-05 | 5 | 5 | — | |
 | BR-REC-06 | 3 | 3 | 1 | TC-REC-20, 21, 22 |
-| BR-REC-07 | 6 | 6 | — | |
-| BR-REC-08 | 0 | — | 1 | RULE-REC-05 đúng nghĩa baseline chưa có trên UI (D-REC-04) |
+| BR-REC-07 | 8 | 8 | — | TC-REC-24, 25 |
+| BR-REC-08 | 1 | 1 | 1 | TC-REC-23 kiểm trên UI; TC-REC-B07 kiểm ở backend |
 | BR-REC-09 | 2 | 2 | — | |
 | BR-REC-10 | 1 | 1 | 1 | |
 
 ## 7. Việc tiếp theo
 
 1. Kế toán trưởng chốt D-REC-01 → 06 (R02 §3) để sửa trạng thái và aging trên UI cho khớp.
-2. Thêm vai trò thứ hai (Checker) vào UI mẫu để chạy được luồng trình lại và RULE-REC-05 đúng nghĩa baseline (REQ-REC-07).
-3. Khi có `reconciliation-service`: chạy TC-REC-B01 → B09, lập báo cáo vòng 2.
+2. Khi có `reconciliation-service`: chạy TC-REC-B01 → B09, lập báo cáo vòng 2.
 
 ## Lịch sử phiên bản
 
@@ -134,3 +136,4 @@ Còn một giới hạn của UI mẫu: chỉ có một người dùng nên chư
 |---|---|---|---|
 | 1.0 | 24/11/2026 | Han Dao | Kế hoạch, 20 ca UI đã chạy (15 đạt), 9 ca backend viết sẵn, 6 lỗi |
 | 1.1 | 24/11/2026 | Han Dao | Vòng 2 sau khi sửa 6 lỗi: 22 ca UI, 22 đạt, 0 lỗi mở |
+| 1.2 | 24/11/2026 | Han Dao | Thêm vai trò Checker và trưởng nhóm vào UI mẫu; TC-REC-23 → 25 (RULE-REC-05, trình lại): 25/25 đạt |

diff --git a/docs/02-reconciliation/R03-ui-spec.md b/docs/02-reconciliation/R03-ui-spec.md
@@ -7,7 +7,7 @@
 | Bản chạy | [/reconciliation/](https://handao2303.github.io/aegis-ekyc-ui/reconciliation/) – dữ liệu hư cấu, chưa nối backend |
 | Mã nguồn | `src/ops/Reconciliation.tsx`, khung dùng chung `src/ops/kit.tsx` |
 | Ảnh | 1280 × 860, tiếng Việt, chụp tự động bằng `tools/diagrams/rec-screens.mjs` |
-| Phiên bản | 1.1 · 24/11/2026 · Han Dao |
+| Phiên bản | 1.2 · 24/11/2026 · Han Dao |
 
 Quy tắc nghiệp vụ và điểm lệch baseline: [R02](R02-requirements-gap-rtm.md). Kết quả chạy thử trên giao diện: [R04](R04-test-plan-cases.md).
 
@@ -18,9 +18,10 @@ Quy tắc nghiệp vụ và điểm lệch baseline: [R02](R02-requirements-gap-
 | Menu trái | Logo "Aegis Đối soát · Khớp giao dịch & GL" · ô tìm kiếm (⌘K) · Tổng quan · Quy tắc đối soát (số quy tắc chờ duyệt) · Ngoại lệ (số đang mở) · Bút toán GL (số chờ Checker) · thẻ người dùng + vai trò + đăng xuất |
 | Thanh trên | Lời chào theo tên · mô tả ngắn · VI/EN · kỳ báo cáo (Hôm nay / 7 ngày / Tháng) · **Xuất** · chuông cảnh báo |
 | Cảnh báo mẫu | File ví điện tử bị cách ly · ngoại lệ quá hạn đã leo thang · bút toán > 50 triệu chờ Checker |
+| Đăng nhập UAT với vai trò | Ô chọn ngay dưới thanh trên: Lê Hoàng Nam (chuyên viên) · Phạm Thu Trang (Checker) · Đỗ Minh Quân (trưởng nhóm, người tạo MR-002, MR-003). Cũng chọn được qua đường dẫn `?as=trang`, `?as=quan`. Chỉ dùng trên UAT; production lấy vai trò từ SSO |
 | Nhãn quy tắc | Mỗi chỗ áp dụng quy tắc có nhãn xám (vd. `RULE-REC-04`, `UAT-REC-09`) để tester và kiểm toán đối chiếu |
 
-### Phân quyền hiển thị (đề xuất – UI mẫu chỉ có một người dùng)
+### Phân quyền hiển thị (đề xuất – UI mẫu chưa ẩn chức năng theo vai trò, chỉ chặn bằng SoD)
 
 | Chức năng | Chuyên viên | Checker | Trưởng nhóm | Kế toán trưởng / QL vận hành |
 |---|---|---|---|---|
@@ -128,11 +129,14 @@ Aging trên UI chia 4 nhóm, BRD chia 3 nhóm – chờ quyết định D-REC-02
 | Từ chối | Hộp thoại lý do; nút "Xác nhận từ chối" khoá khi lý do < 10 ký tự. Lý do hiện dưới bút toán; ngoại lệ liên quan mở lại | REQ-REC-05 |
 | Trả về | Hộp thoại ghi chú ≥ 10 ký tự; bút toán sang "Trả về Maker", hiện ghi chú của Checker. Maker thấy nút **Trình lại**, bút toán giữ mã, tăng số lần trình | REQ-REC-06 |
 | Maker bấm Duyệt / Trả về / Từ chối bút toán của mình | Chặn: "bạn là Maker của bút toán này" | BR-REC-07 |
+| Người tạo quy tắc bấm Duyệt bút toán > 50 triệu sinh từ quy tắc đó | Chặn: "bạn là người tạo quy tắc MR-xxx sinh ra giao dịch này". Cột Cơ chế · Maker ghi quy tắc nguồn và người tạo để Checker thấy trước | RULE-REC-05, REQ-REC-07 |
 | Chân trang | "Ngưỡng 50 triệu giữ theo baseline vì CR-002 chưa được duyệt" | ASM-07, DEC-01 |
 
 <img src="../../public/ui/rec-gl-reject.png" width="620" alt="REC-06 – hộp thoại lý do từ chối">
 
-**Còn thiếu:** chuyển cấp duyệt cao hơn (REQ-REC-10), kiểm tra người tạo rule không được duyệt (REQ-REC-07) – cần UI có nhiều vai trò.
+<img src="../../public/ui/rec-gl-rule-sod.png" width="760" alt="REC-06 – người tạo quy tắc MR-002 không duyệt được bút toán sinh từ MR-002">
+
+**Còn thiếu:** chuyển cấp duyệt cao hơn (REQ-REC-10).
 
 ## 8. Trạng thái và thông điệp
 
@@ -151,3 +155,4 @@ Trạng thái luôn có chữ đi kèm màu, không chỉ dùng màu (WCAG 2.2 t
 |---|---|---|---|
 | 1.0 | 24/11/2026 | Han Dao | Bản đầu, có ảnh 6 màn, ghi phần còn thiếu so với baseline |
 | 1.1 | 24/11/2026 | Han Dao | Cập nhật REC-05, REC-06 sau khi sửa 6 lỗi của R04: 3 cách xử lý, nguyên nhân khác, khoá bút toán trùng, Chờ hạch toán, lý do từ chối, trả về Maker |
+| 1.2 | 24/11/2026 | Han Dao | Ô đăng nhập UAT với 3 vai trò; kiểm RULE-REC-05 đúng nghĩa baseline khi duyệt bút toán |

diff --git a/docs/README.md b/docs/README.md
@@ -121,9 +121,9 @@ flowchart LR
 | Tài liệu | Jira | Diagram | Trạng thái |
 |---|---|---|---|
 | [R01 Luồng, trạng thái & kiểm soát](02-reconciliation/R01-reconciliation-flow.md) | SCRUM-7, 49, 50 | Flowchart ×2, State ×2, Sequence, ERD | 🔧 Đặc tả + UI mẫu xong, chờ backend |
-| [R02 Yêu cầu bổ sung, điểm lệch baseline & RTM](02-reconciliation/R02-requirements-gap-rtm.md) | SCRUM-7, 23, 26, 50, 53 | State | 📝 v0.2 · 9 điểm chờ Kế toán trưởng quyết định · 20 yêu cầu |
-| [R03 Đặc tả giao diện REC-01 → 06](02-reconciliation/R03-ui-spec.md) | SCRUM-49 | — | ✅ v1.1, có ảnh từng màn |
-| [R04 Kiểm thử: kế hoạch, test case, kết quả vòng 1–2](02-reconciliation/R04-test-plan-cases.md) | SCRUM-7, 49 | — | ✅ v1.1 · 22 ca UI đạt 22 · 6 lỗi đã sửa · 9 ca backend chờ service |
+| [R02 Yêu cầu bổ sung, điểm lệch baseline & RTM](02-reconciliation/R02-requirements-gap-rtm.md) | SCRUM-7, 23, 26, 50, 53 | State | 📝 v0.3 · 9 điểm chờ Kế toán trưởng quyết định · 20 yêu cầu |
+| [R03 Đặc tả giao diện REC-01 → 06](02-reconciliation/R03-ui-spec.md) | SCRUM-49 | — | ✅ v1.2, có ảnh từng màn |
+| [R04 Kiểm thử: kế hoạch, test case, kết quả vòng 1–2](02-reconciliation/R04-test-plan-cases.md) | SCRUM-7, 49 | — | ✅ v1.2 · 25 ca UI đạt 25 · 6 lỗi đã sửa · 9 ca backend chờ service |
 
 ### Module 3 · Hạn mức
 
